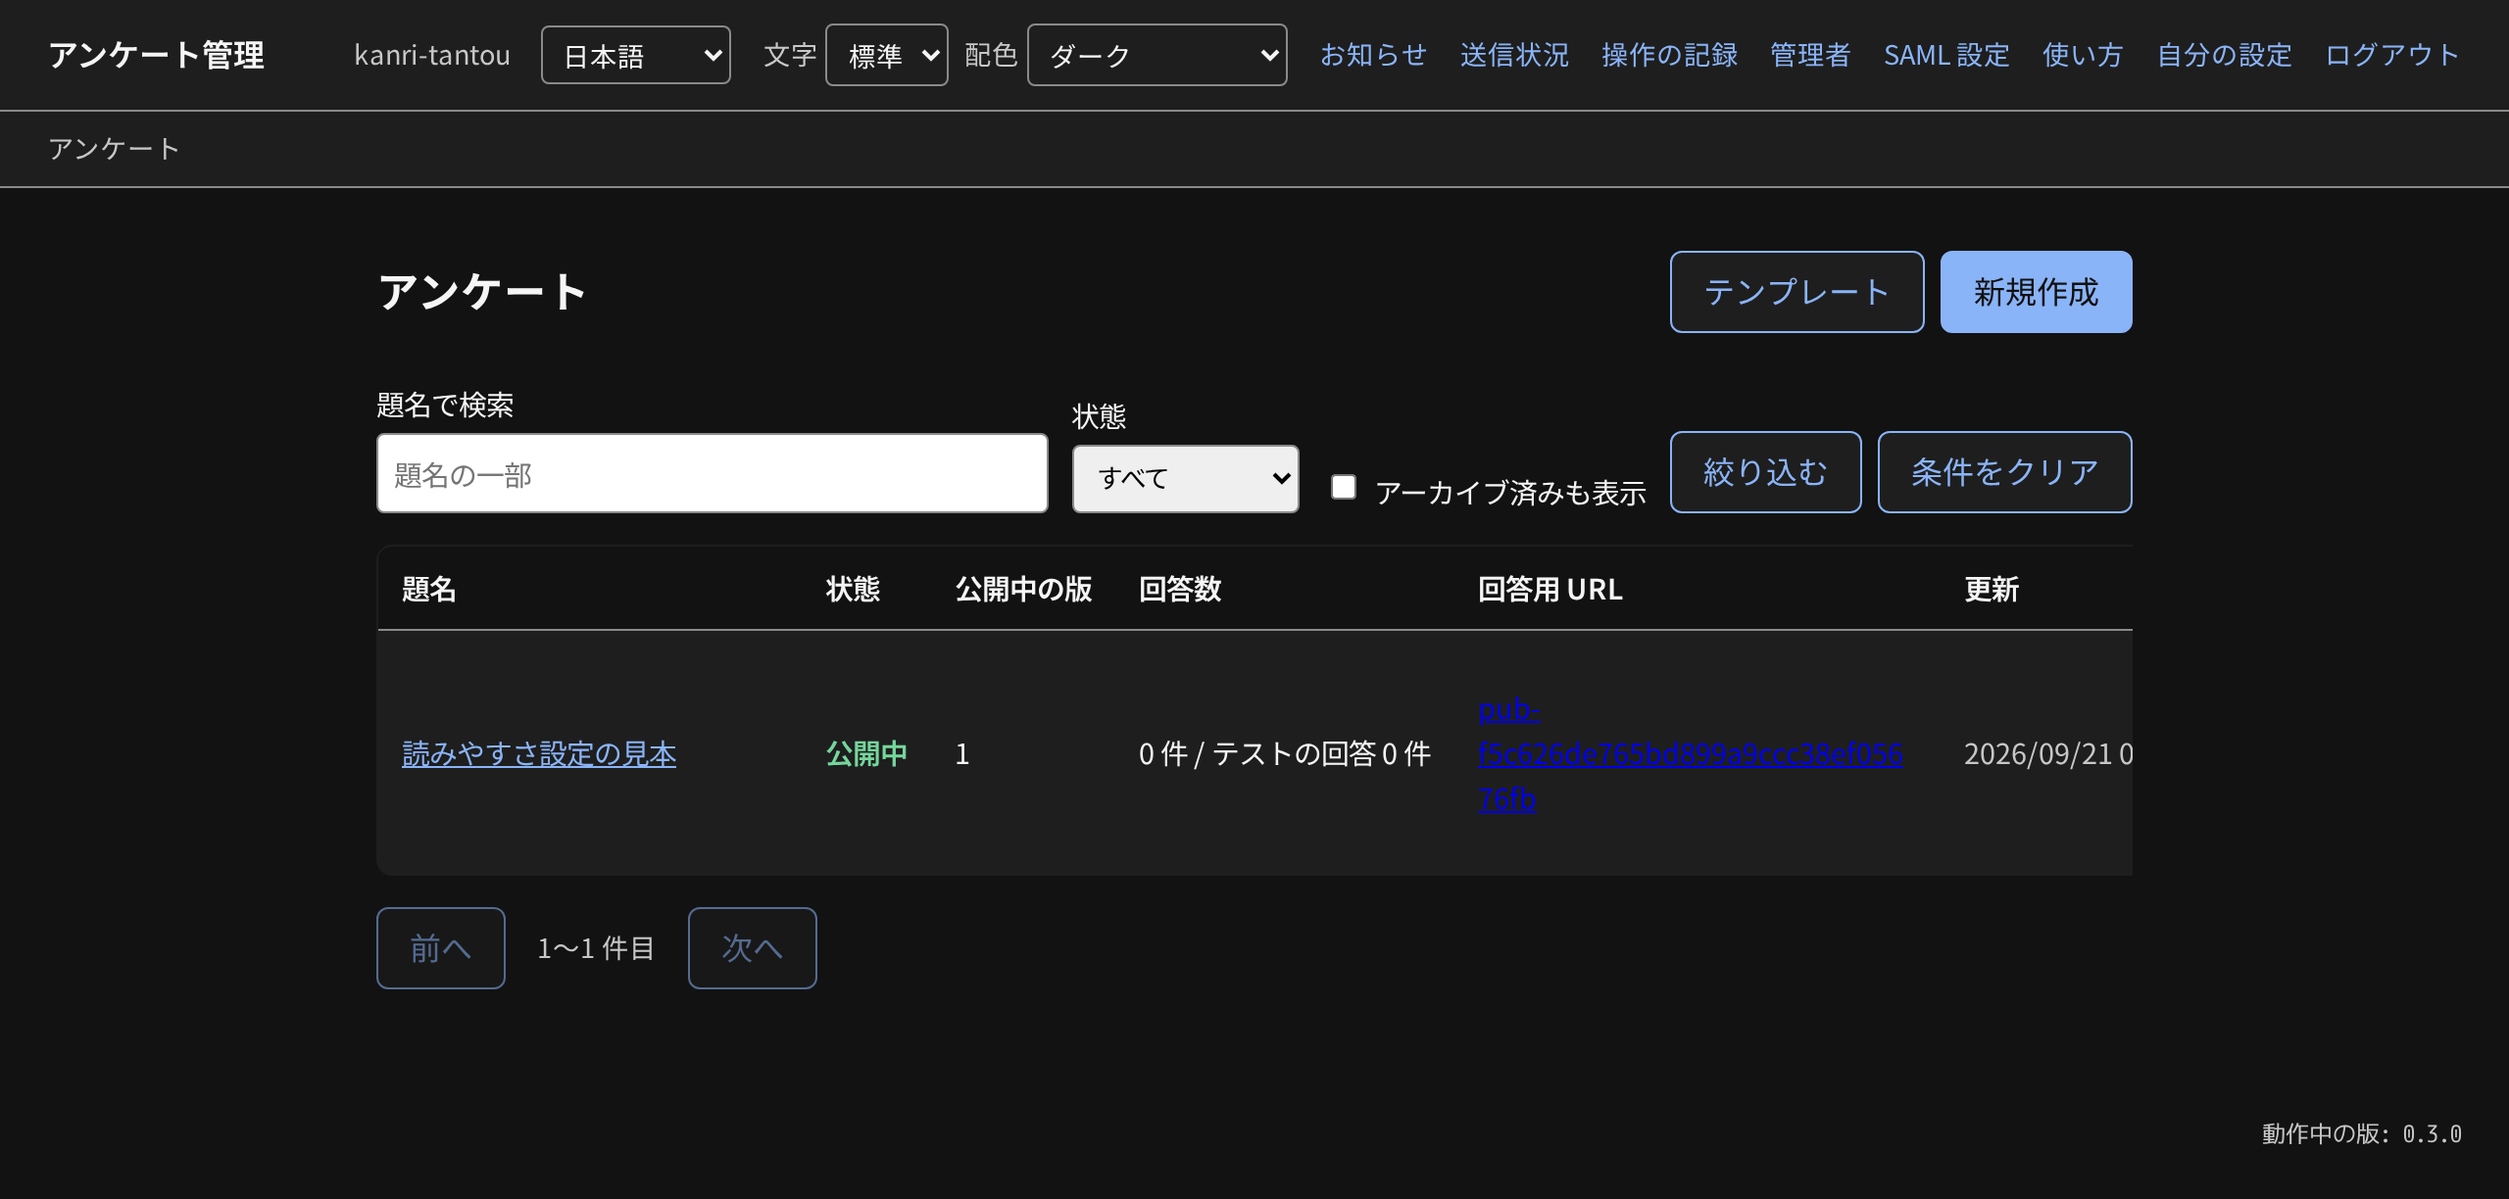
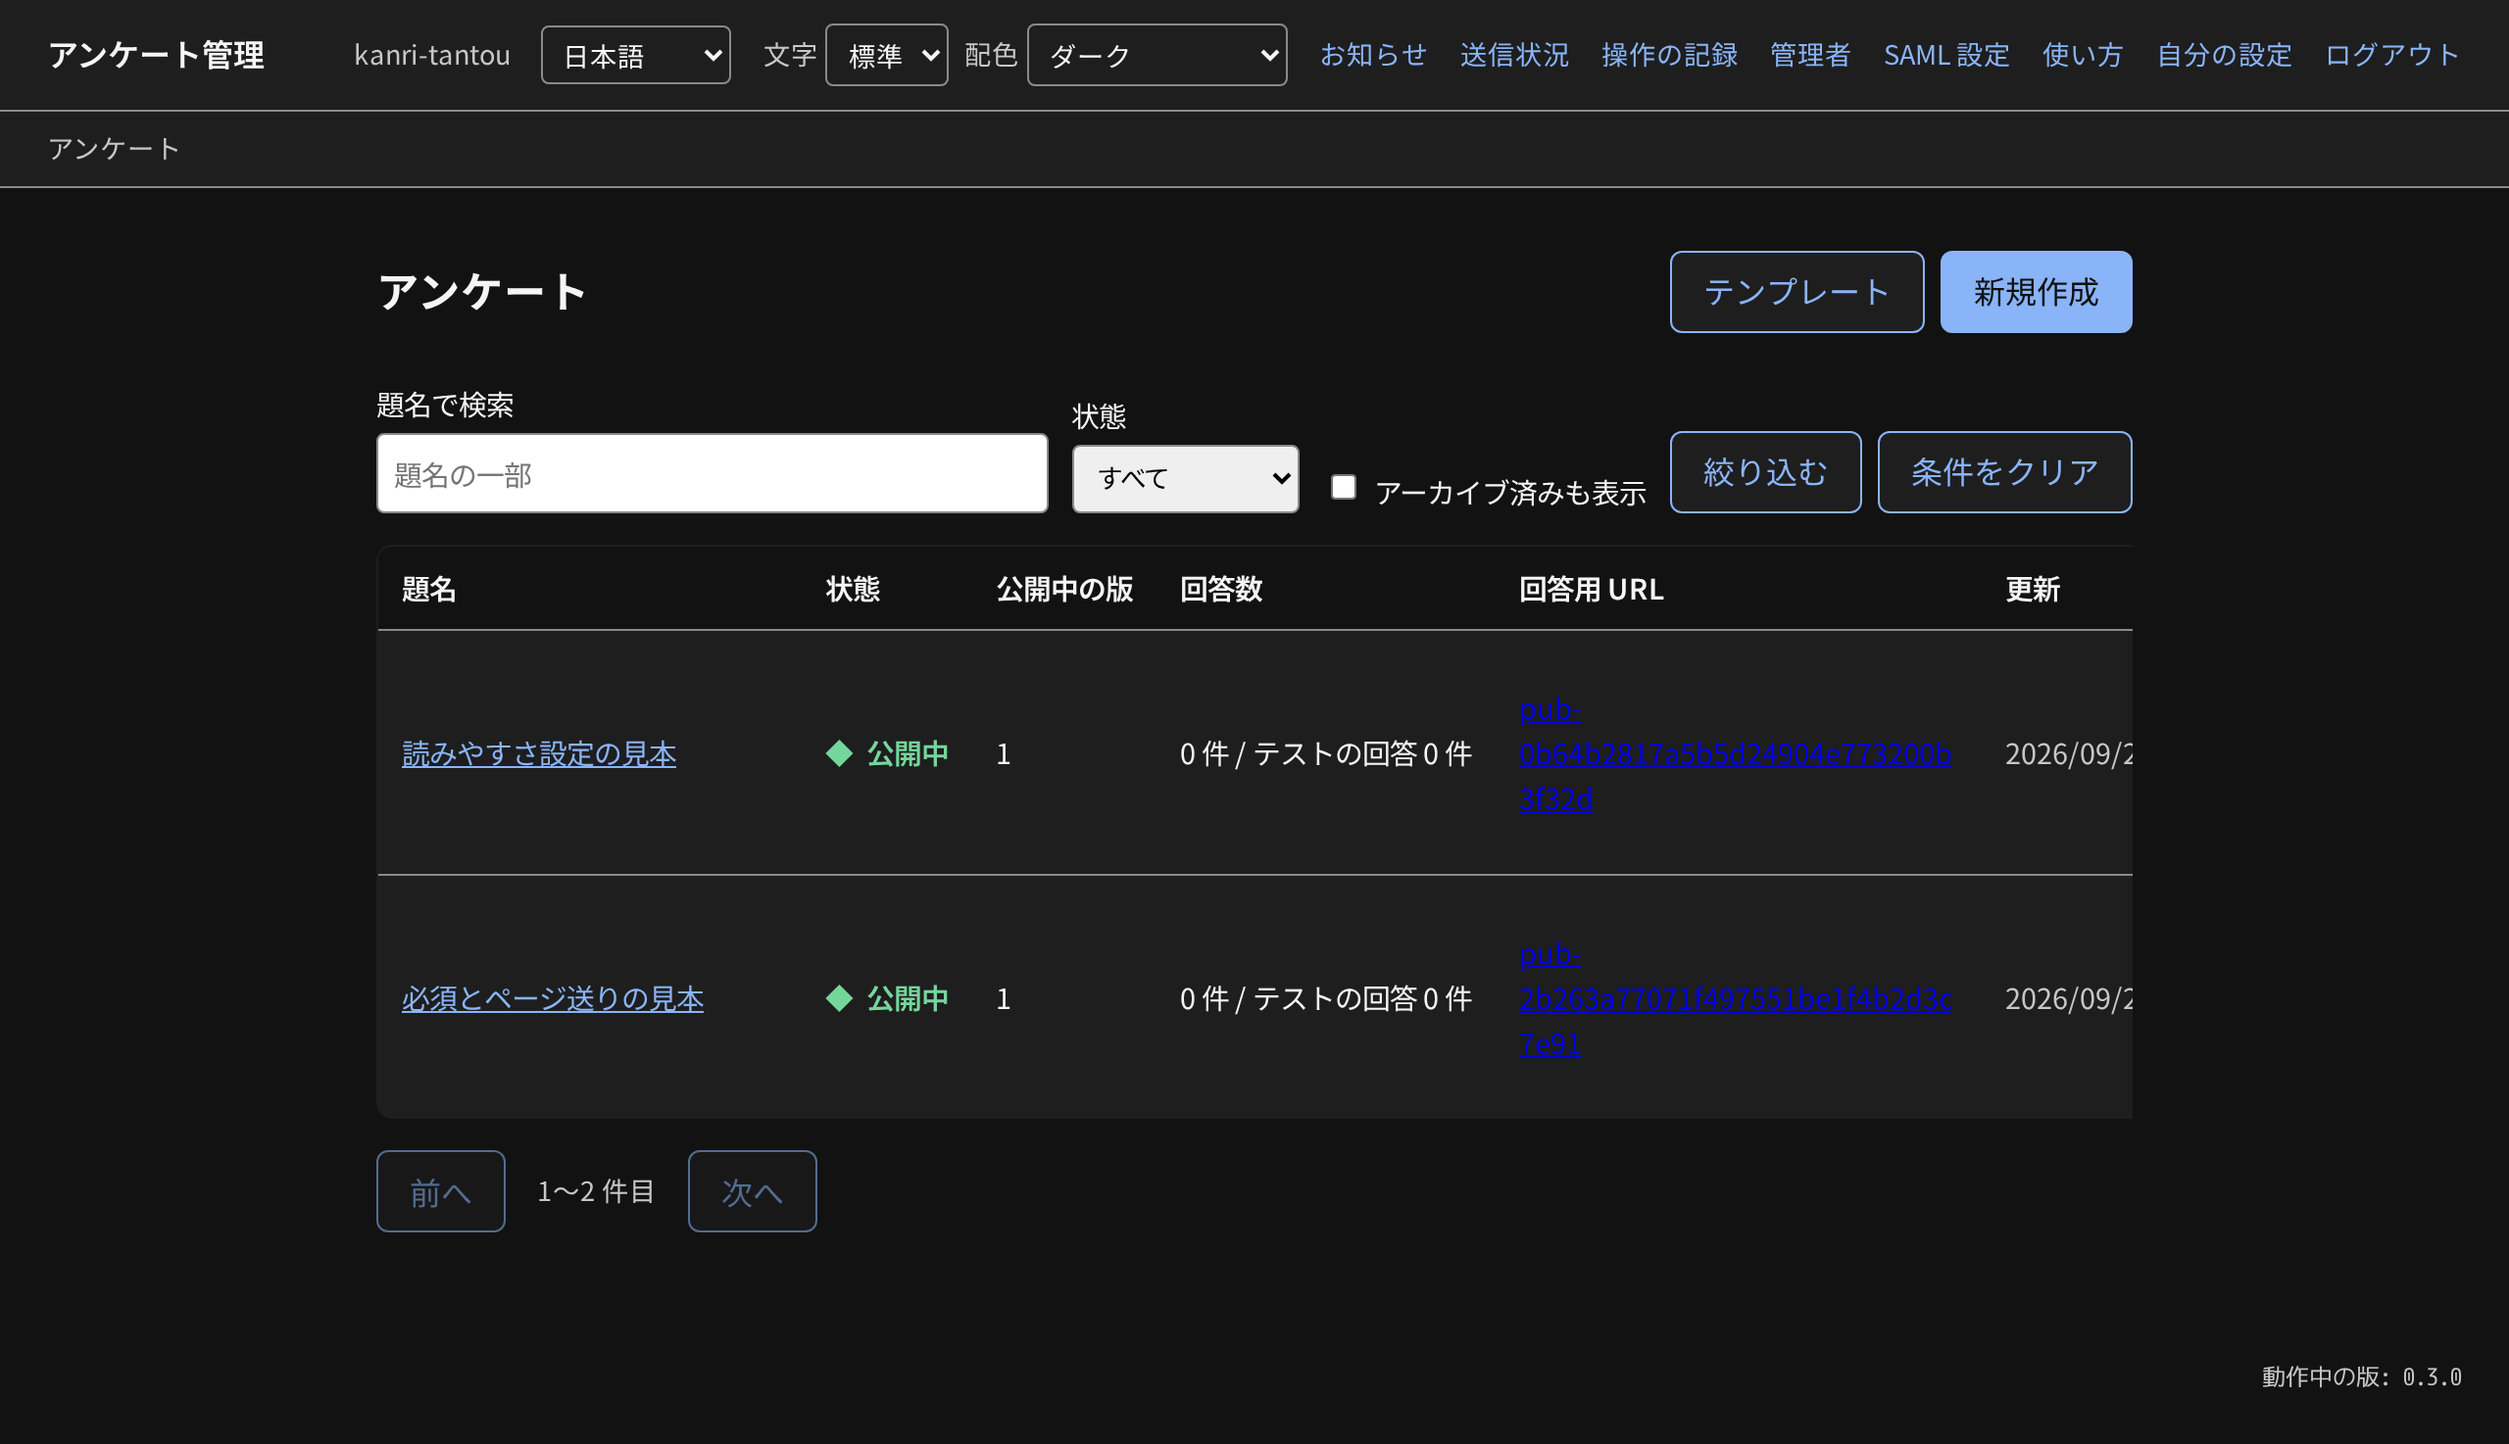
必須入力エラーと単一選択の読みやすさ画面を追加する
必須印・エラー文言・選択済みラジオを高コントラスト下で確認できるようにするため、既存の必須入力用見本を拡張して写しを追加した。Playwright 7件、単体テスト335件、フロントエンドのビルドとSvelte型検査で検証し、追加写しと状態記号を反映した管理画面写しを目視確認した。

diff --git a/tools/screenshots/specs/readability.spec.ts b/tools/screenshots/specs/readability.spec.ts
@@ -1,5 +1,6 @@
 import { expect, test, type Locator, type Page } from '@playwright/test';
 import { ensureAdminStorageState } from '../lib/admin';
+import { prepareRequiredSurvey } from '../lib/required';
 import { prepareThemeSurvey } from '../lib/theme';
 import { findTofu, japaneseSamples } from '../lib/tofu';
 
@@ -85,6 +86,7 @@ test.describe.configure({ mode: 'serial' });
 test.describe('読みやすさ設定の写し', () => {
   let authFile = '';
   let publicId = '';
+  let requiredPublicId = '';
 
   test.beforeAll(async ({ browser }) => {
     test.setTimeout(180_000);
@@ -101,6 +103,7 @@ test.describe('読みやすさ設定の写し', () => {
           '読みやすさ設定の見本',
         )
       ).publicId;
+      requiredPublicId = (await prepareRequiredSurvey(context.request, demoSiteId)).publicId;
     } finally {
       await context.close();
     }
@@ -145,6 +148,21 @@ test.describe('読みやすさ設定の写し', () => {
     await expectColors(page, dark);
     expect(await cssVariable(page, '--bg')).not.toBe(forest.background);
     await shoot(page, answer, 'answer-09-readability-dark');
+  });
+
+  test('回答画面：高コントラストの必須エラーと単一選択', async ({ page }) => {
+    await page.goto(`/f/${requiredPublicId}`);
+    await expect(page.getByRole('heading', { name: '必須とページ送りの見本' })).toBeVisible();
+    await page.locator('#answer-readability-color-mode').selectOption('highContrast');
+    await expectColors(page, highContrast);
+
+    await page.getByLabel('メール').check();
+    await page.getByRole('button', { name: '次へ' }).click();
+
+    await expect(page.getByRole('alert').filter({ hasText: '回答してください' })).toBeVisible();
+    await expect(page.getByLabel('お名前')).toHaveAttribute('aria-invalid', 'true');
+    await expect(page.getByLabel('メール')).toBeChecked();
+    await shoot(page, page.locator('main'), 'answer-10-readability-required-error');
   });
 
   async function openAdmin(

diff --git a/tools/screenshots/lib/required.ts b/tools/screenshots/lib/required.ts
@@ -6,7 +6,8 @@ import type { APIRequestContext } from '@playwright/test';
  * **形はこう。**
  *
  * ```text
- * ページ1  q-name「お名前」（必須）
+ * ページ1  q-channel「希望する連絡方法」（任意・単一選択）
+ *          q-name「お名前」（必須）
  *          q-memo「ひとこと」（任意）
  * ページ2  q-mail「連絡先」（必須・メール）
  * ```
@@ -45,6 +46,17 @@ export async function prepareRequiredSurvey(
         pageId: 'page-1',
         title: { ja: 'お客様について' },
         questions: [
+          {
+            questionId: 'q-channel',
+            type: 'Radio',
+            title: { ja: '希望する連絡方法' },
+            isRequired: false,
+            choices: [
+              { value: 'email', label: { ja: 'メール' } },
+              { value: 'phone', label: { ja: '電話' } },
+            ],
+            settings: {},
+          },
           {
             questionId: 'q-name',
             type: 'Text',

diff --git a/_documents/画面設計.md b/_documents/画面設計.md
@@ -132,6 +132,10 @@ stateDiagram-v2
 
     ![回答画面のダーク配色](../tools/screenshots/shots/answer-09-readability-dark.png)
 
+    回答画面（高コントラスト・必須入力エラーと単一選択）:
+
+    ![回答画面の高コントラストで必須入力エラーと単一選択を示す](../tools/screenshots/shots/answer-10-readability-required-error.png)
+
     管理画面（ダーク）:
 
     ![管理画面のダーク配色](../tools/screenshots/shots/admin-17-readability-dark.png)
